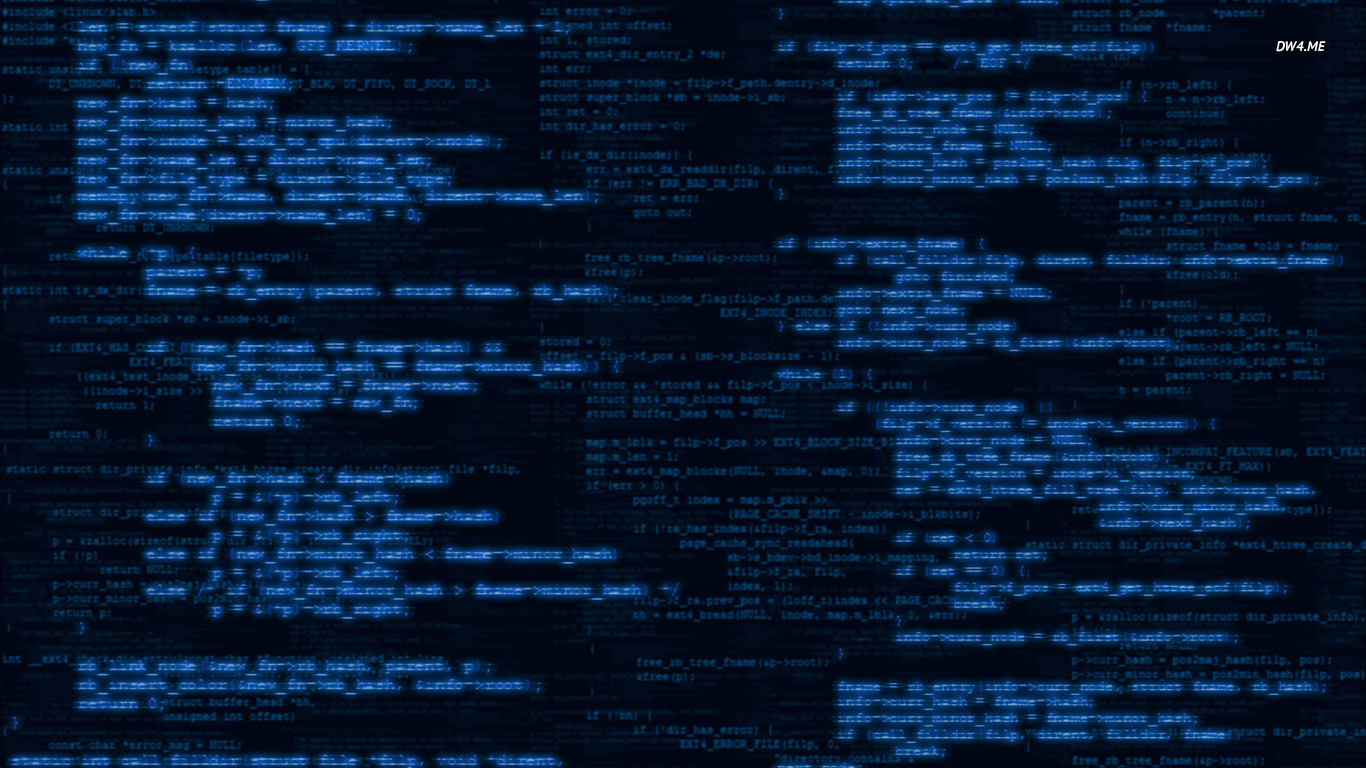
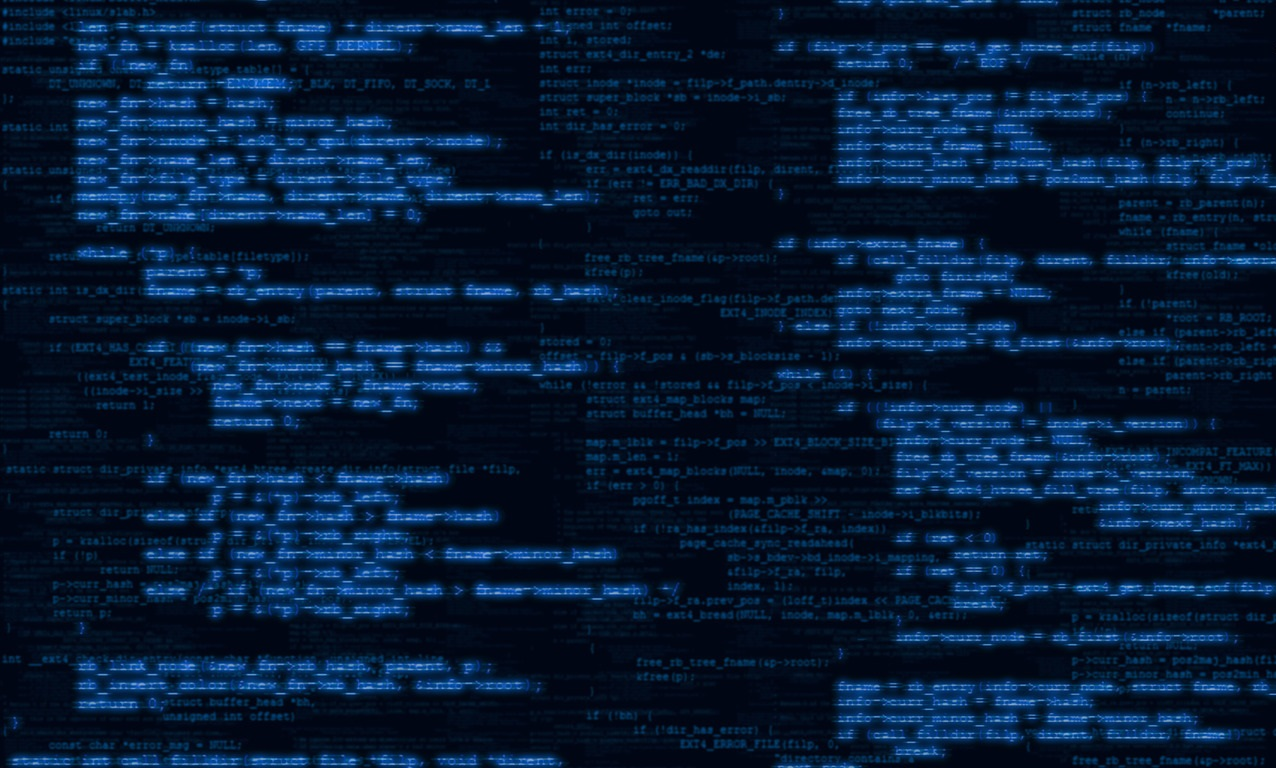
commit

Changed region(s): [[0.0306, 0.0, 1.0, 1.0], [0.0306, 0.8438, 0.4585, 1.0], [0.0306, 0.6875, 0.0611, 0.7188]]

diff --git a/src/Cabecalho/Cabecalho.js b/src/Cabecalho/Cabecalho.js
@@ -8,13 +8,16 @@ import TextoAnimado from './TextoAnimado';
 
 const styles = {
     Imagem: {
-        width:'100%',
-        height:658,
+        display:'block',
+        width:'100vw',
+        minHeight:'100vh',
         backgroundImage: `url(${ImgCode})`,
+        backgroundSize: 'cover',
+        overflow: 'hidden',
     },
     Texto:{
         color:'white',
-        paddingTop:200
+        paddingTop:'35vh'
     },
 };
 function MediaCard(props) {

diff --git a/src/Cabecalho/TextoAnimado.js b/src/Cabecalho/TextoAnimado.js
@@ -5,7 +5,7 @@ import ImgCode from "../Img/Code.jpg";
 const styles = {
     Texto:{
         color:'white',
-        paddingLeft:450,
+        paddingLeft:'33vw',
     },
 };
 
